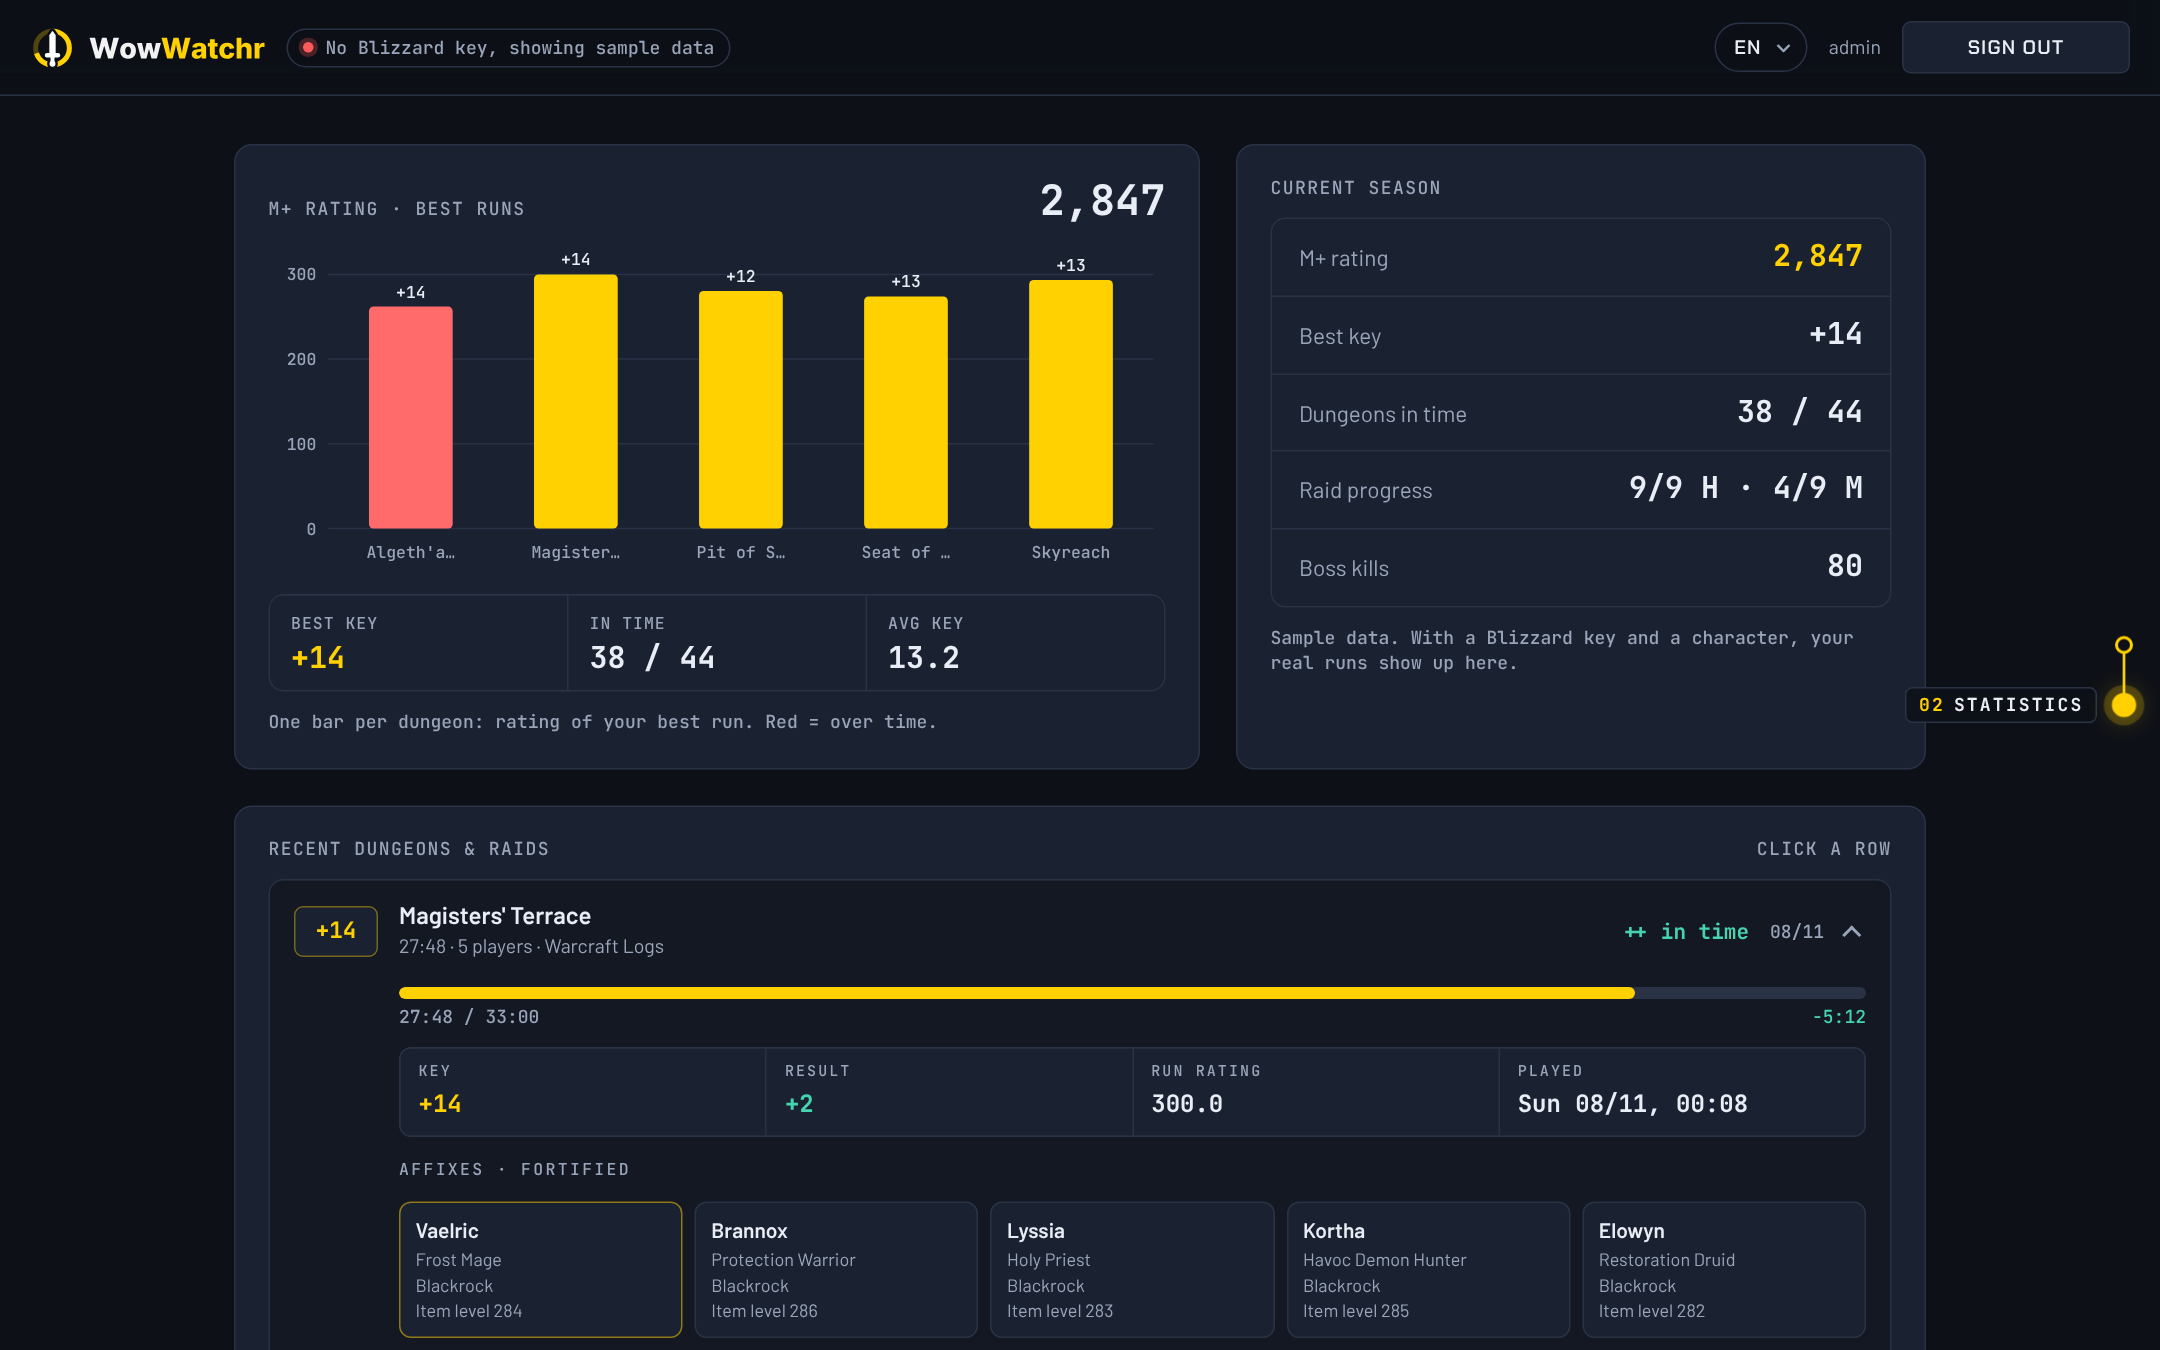
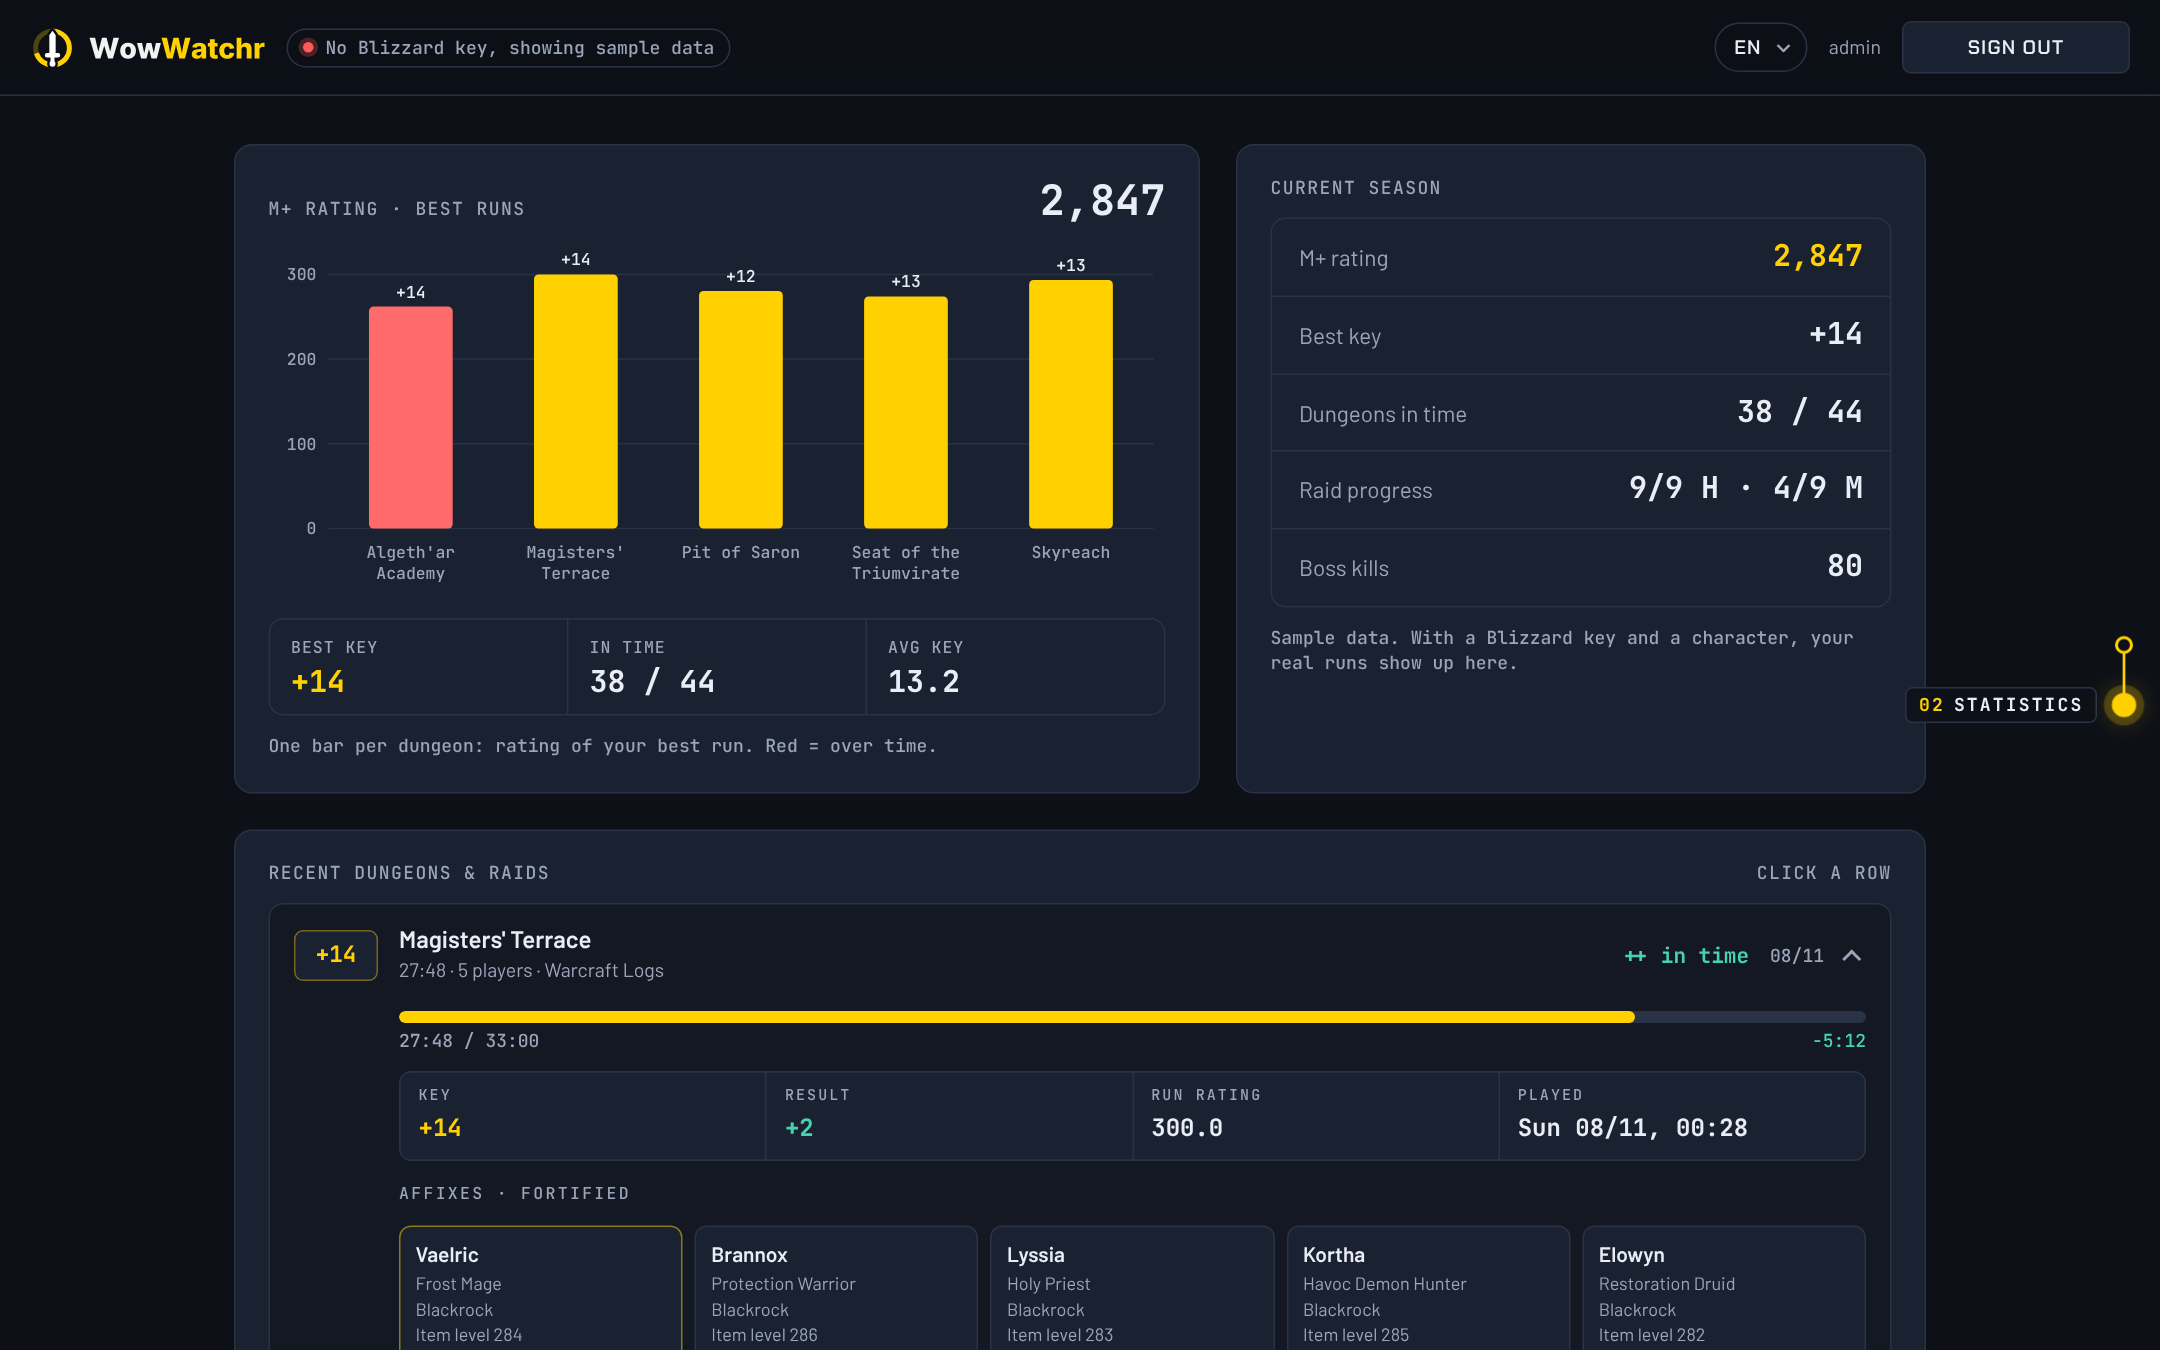
Dungeon names under the chart on two lines instead of cut off

diff --git a/public/js/stats.js b/public/js/stats.js
@@ -61,7 +61,7 @@ function renderChart(t, runs) {
   $('chartNote').textContent = t.stChartNote;
 
   const chart = $('ratingChart');
-  const W = 600, H = 220, left = 40, right = 8, top = 22, bottom = 28;
+  const W = 600, H = 236, left = 40, right = 8, top = 22, bottom = 44;
   if (!runs.length) {
     chart.innerHTML = `<text x="${W / 2}" y="${H / 2}" text-anchor="middle" class="empty">${esc(t.stNoRuns)}</text>`;
     chart.setAttribute('aria-label', t.stNoRuns);
@@ -82,11 +82,25 @@ function renderChart(t, runs) {
     const label = name(run.dungeon);
     svg += `<rect class="bar${run.result < 0 ? ' over' : ''}" x="${x}" y="${y(run.rating)}" width="${bar}" height="${y(0) - y(run.rating)}" rx="3"><title>${esc(label)} +${run.key} · ${num(run.rating, 1)}</title></rect>`;
     svg += `<text class="key" x="${x + bar / 2}" y="${y(run.rating) - 6}" text-anchor="middle">+${run.key}</text>`;
-    const short = label.length > 9 ? `${label.slice(0, 8)}…` : label;
-    svg += `<text x="${x + bar / 2}" y="${H - 8}" text-anchor="middle">${esc(short)}<title>${esc(label)}</title></text>`;
+    const [one, two] = twoLines(label, Math.max(6, Math.floor(slot / 7)));
+    svg += `<text x="${x + bar / 2}" y="${H - 24}" text-anchor="middle">${esc(one)}${two ? `<tspan x="${x + bar / 2}" dy="14">${esc(two)}</tspan>` : ''}<title>${esc(label)}</title></text>`;
   });
   chart.innerHTML = svg;
   chart.setAttribute('aria-label', t.stMplusHead);
+}
+
+/** Dungeon-Name auf höchstens zwei Zeilen, an Wortgrenzen; nur was dann noch zu lang ist, wird gekürzt */
+function twoLines(label, max) {
+  const cut = (text) => (text.length > max ? `${text.slice(0, max - 1)}…` : text);
+  const words = label.split(' ');
+  if (label.length <= max || words.length === 1) return [cut(label), ''];
+  // Trennstelle, an der die längere Zeile am kürzesten ist
+  let best = 1;
+  for (let i = 1; i < words.length; i++) {
+    const len = (k) => Math.max(words.slice(0, k).join(' ').length, words.slice(k).join(' ').length);
+    if (len(i) < len(best)) best = i;
+  }
+  return [cut(words.slice(0, best).join(' ')), cut(words.slice(best).join(' '))];
 }
 
 function renderSeason(t) {

diff --git a/public/editor.html b/public/editor.html
@@ -89,7 +89,7 @@
       <div class="stats-grid">
         <div class="panel">
           <div class="panel-head"><span id="chartHead"></span><b id="chartScore">–</b></div>
-          <svg id="ratingChart" class="chart" viewBox="0 0 600 220" role="img"></svg>
+          <svg id="ratingChart" class="chart" viewBox="0 0 600 236" role="img"></svg>
           <dl class="trend">
             <div><dt data-i18n="best"></dt><b id="trBest" class="gold">–</b></div>
             <div><dt data-i18n="timed"></dt><b id="trTimed">–</b></div>
